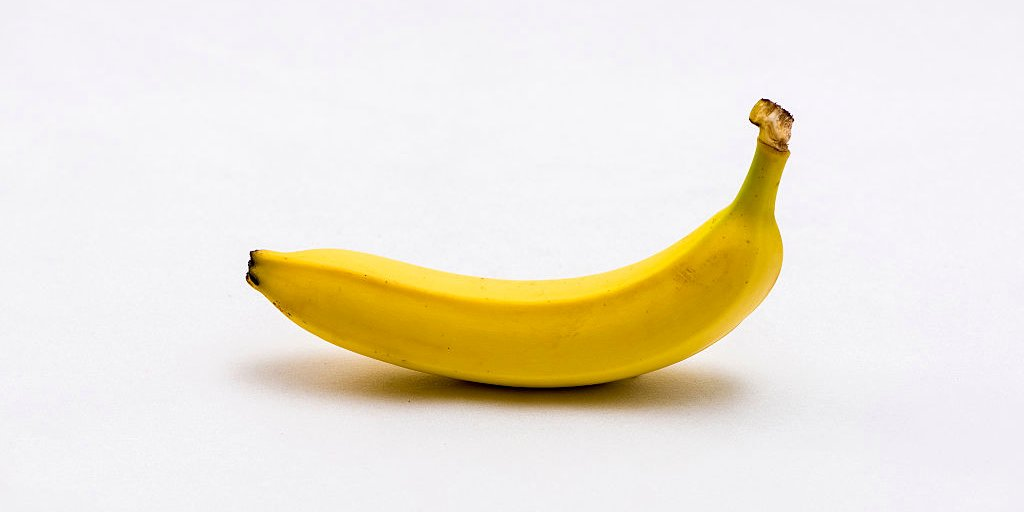
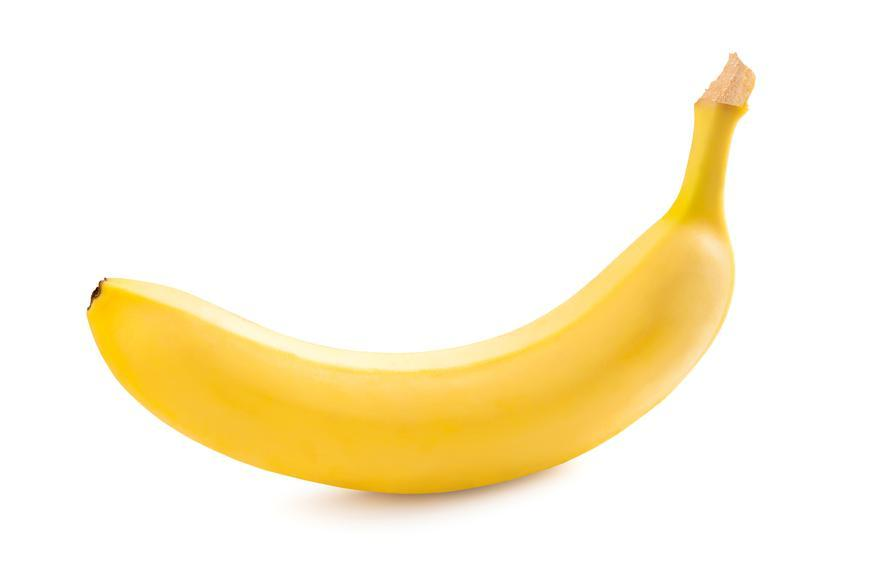
Added into storeview.html

Changed region(s): [[0.0931, 0.0938, 0.869, 0.9375]]

diff --git a/app/grocery_delivery/hello/templates/hello/storeview.html b/app/grocery_delivery/hello/templates/hello/storeview.html
@@ -54,35 +54,34 @@
 <div class="container">
         <center> 
         <h1> Store Name </h1>
-        {% for item in items %}
-                {% if item.getStoreID == 1 %}
-                        <div class="item_image">
-                                <img src="{% static 'hello/images/1.jpg' %}">
-                        </div>
-                        {{ item.getGroceryName }} </br>
-                        Brand: {{ item.getBrand }}
-                        Category: {{ item.getCategory }} </br>
-                        Price: ${{ item.getPrice }} </br>
-                        {% if item.getStock > 10 %}
-                                Stock: 10+ </br>
-                        {% elif item.getStock <= 0 %}
-                                Out of Stock! </br>
-                        {% else %}
-                                Stock: {{item.getStock}} </br>
-                        {% endif %}
-                {% endif %} </br>
-        {% endfor %}
-    </center>
+        </center>
+        <div class="row align-items-center">
+                {% for item in items %}
+                        {% if item.getStoreID == 1 %}
+                                <div class="col-md-3">
+                                        <img class="img-responsive img-thumbnail" src="{% static item.getDest %}"> </br>
+                                        {{ item.getGroceryName }} </br>
+                                        Brand: {{ item.getBrand }} </br>
+                                        Category: {{ item.getCategory }} </br>
+                                        Price: ${{ item.getPrice }} </br>
+                                        {% if item.getStock > 10 %}
+                                                Stock: 10+ </br>
+                                        {% elif item.getStock <= 0 %}
+                                                Out of Stock! </br>
+                                        {% else %}
+                                                Stock: {{item.getStock}} </br>
+                                        {% endif %}
+                                </div>
+                        {% endif %} </br>
+                {% endfor %}
+        </div>
 <!--Footer-->
         <footer style="text-align: center">
                 <div class="row">
                         <div class="col-lg-12">
-                                <p>Copyright &copy; Pomona Buisness Machines</p>
+                                <p>Copyright &copy; Pomona Business Machines</p>
                         </div>
                 </div>
         </footer>
 {% endblock %}
 </div>
-
-
-        

diff --git a/app/grocery_delivery/hello/templates/hello/style.css b/app/grocery_delivery/hello/templates/hello/style.css
@@ -55,6 +55,12 @@ figure {
     padding: 1rem;
 }
 
+img {
+  float: left;
+  width:  100px;
+  height: 100px;
+  object-fit: cover;
+}
 
 /*
 Extra small (xs) devices (portrait phones, less than 576px)

diff --git a/app/grocery_delivery/hello/models.py b/app/grocery_delivery/hello/models.py
@@ -166,6 +166,7 @@ class Groceryitem(models.Model):
     brand = models.CharField(max_length=45)
     description = models.CharField(max_length=100)
     stock = models.IntegerField()
+    dest = models.CharField(max_length=45)
     def getGroceryID(self): return self.groceryid
     def getStrGroceryID(self): return str(self.groceryid)
     def getStoreID(self): return self.grocerystore_storeid.getStoreID()
@@ -176,6 +177,8 @@ class Groceryitem(models.Model):
     def getBrand(self): return self.brand
     def getDescription(self): return self.description
     def getStock(self): return self.stock
+    def getDest(self): return self.dest
+
     class Meta:
         managed = False
         db_table = 'groceryItem'
